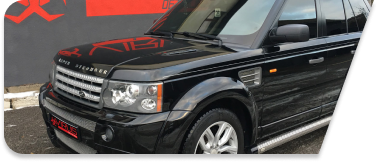
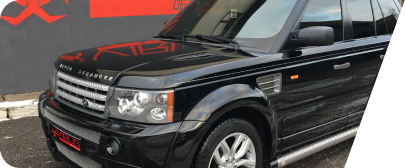
got new image for our work section and fixed alignments ans updated border radius to match.

diff --git a/css/style.css b/css/style.css
@@ -663,11 +663,8 @@ main {
     flex-wrap: wrap;
     margin-right: 0 !important;
     margin-left: -1px !important; }
-    .cars-card .row .work-five {
-      margin-left: -5px !important; }
   .cars-card .card {
     background: #000000;
-    border-radius: 20px;
     width: 100%;
     max-width: 580px;
     min-width: 540px;
@@ -677,7 +674,12 @@ main {
     justify-items: center;
     align-self: center;
     padding: 0 !important;
-    cursor: pointer; }
+    cursor: pointer;
+    border-radius: 25px;
+    -webkit-border-radius: 25px;
+    -moz-border-radius: 25px;
+    -ms-border-radius: 25px;
+    -o-border-radius: 25px; }
     .cars-card .card .work-one {
       box-sizing: border-box;
       background-image: url("../img/car1.png");

diff --git a/scss/style.scss b/scss/style.scss
@@ -951,17 +951,11 @@ main {
         flex-wrap: wrap;
         margin-right: 0 !important;
         margin-left: -1px !important;
-
-        .work-five {
-            margin-left: -5px !important;
-        }
-
     }
 
 
     .card {
         background: #000000;
-        border-radius: 20px;
         width: 100%;
         max-width: 580px;
         min-width: 540px;
@@ -972,6 +966,12 @@ main {
         align-self: center;
         padding: 0 !important;
         cursor: pointer;
+        border-radius: 25px;
+        -webkit-border-radius: 25px;
+        -moz-border-radius: 25px;
+        -ms-border-radius: 25px;
+        -o-border-radius: 25px;
+
 
         .work-one {
             box-sizing: border-box;
